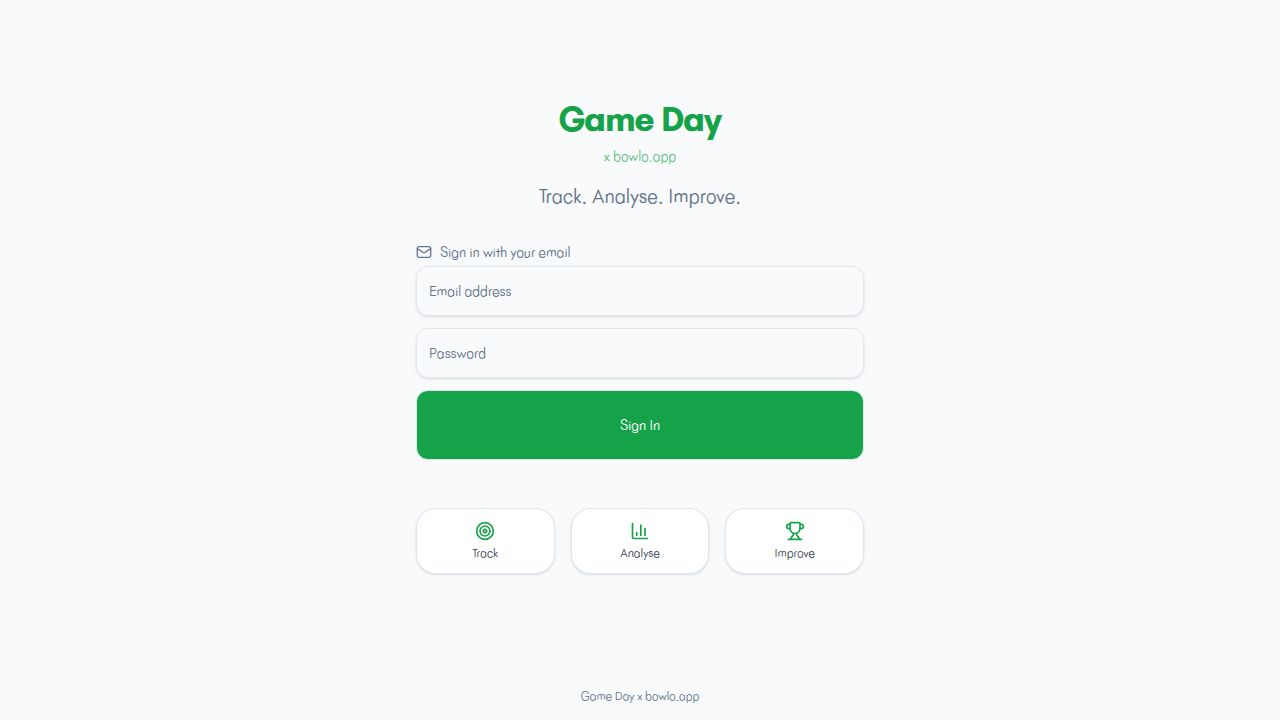
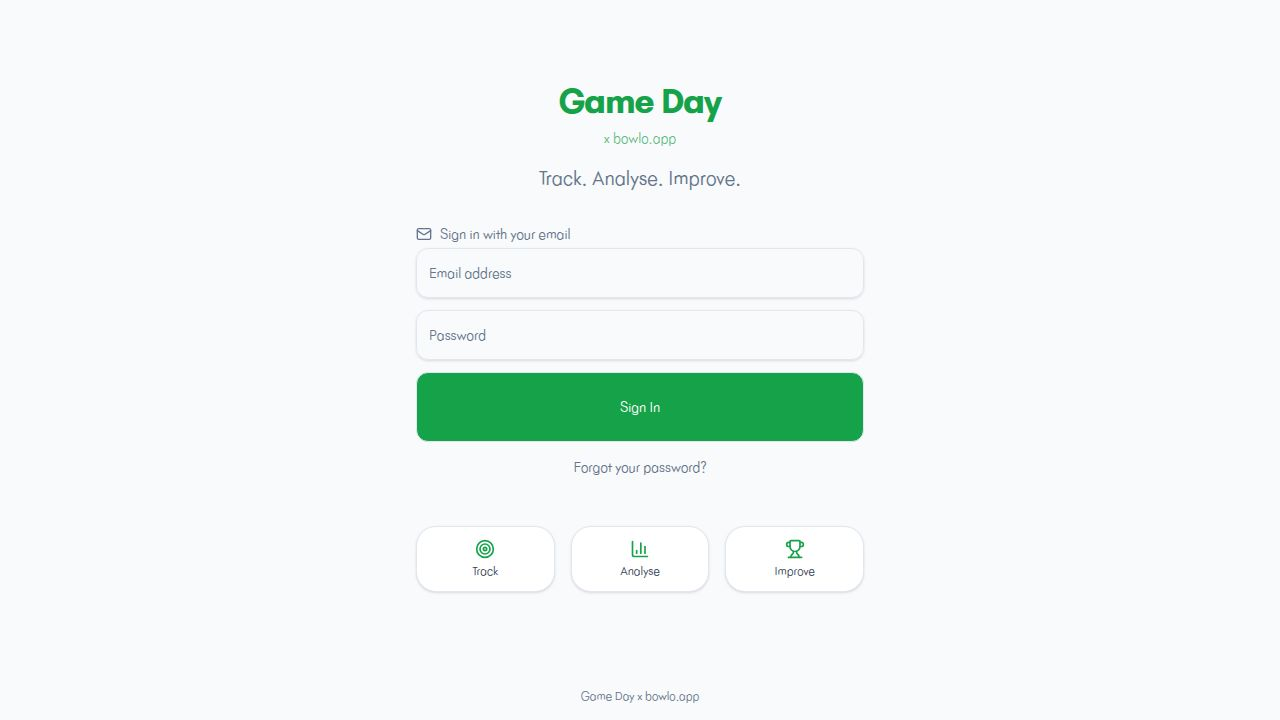
Add ability for users to install the app on their phones
Implement PWA features including a service worker, manifest, and an install prompt component to allow users to add the application to their home screen on both Android and iOS devices.

Replit-Commit-Author: Agent
Replit-Commit-Session-Id: 8a6bf808-df9c-4d21-804c-c904d6196b6b
Replit-Commit-Checkpoint-Type: full_checkpoint
Replit-Commit-Event-Id: 913cd4a6-5a5d-46b2-9cb9-c38441bb8a50
Replit-Commit-Screenshot-Url: https://storage.googleapis.com/screenshot-production-us-central1/6723928c-374d-4b0d-a8f7-f4464587c831/8a6bf808-df9c-4d21-804c-c904d6196b6b/dKTUlya
Replit-Helium-Checkpoint-Created: true

diff --git a/client/src/components/install-prompt.tsx b/client/src/components/install-prompt.tsx
@@ -1,0 +1,115 @@
+import { useState, useEffect } from "react";
+import { Button } from "@/components/ui/button";
+import { X, Share, Plus } from "lucide-react";
+
+const DISMISSED_KEY = "pwa-install-dismissed";
+
+function isIos() {
+  return /iphone|ipad|ipod/i.test(navigator.userAgent);
+}
+
+function isInStandaloneMode() {
+  return (
+    ("standalone" in window.navigator && (window.navigator as any).standalone === true) ||
+    window.matchMedia("(display-mode: standalone)").matches
+  );
+}
+
+export default function InstallPrompt() {
+  const [deferredPrompt, setDeferredPrompt] = useState<any>(null);
+  const [showAndroid, setShowAndroid] = useState(false);
+  const [showIos, setShowIos] = useState(false);
+
+  useEffect(() => {
+    if (isInStandaloneMode()) return;
+    if (localStorage.getItem(DISMISSED_KEY)) return;
+
+    if (isIos()) {
+      const timer = setTimeout(() => setShowIos(true), 2000);
+      return () => clearTimeout(timer);
+    }
+
+    const handler = (e: Event) => {
+      e.preventDefault();
+      setDeferredPrompt(e);
+      setShowAndroid(true);
+    };
+
+    window.addEventListener("beforeinstallprompt", handler as EventListener);
+    return () => window.removeEventListener("beforeinstallprompt", handler as EventListener);
+  }, []);
+
+  const dismiss = () => {
+    localStorage.setItem(DISMISSED_KEY, "1");
+    setShowAndroid(false);
+    setShowIos(false);
+  };
+
+  const installAndroid = async () => {
+    if (!deferredPrompt) return;
+    deferredPrompt.prompt();
+    const { outcome } = await deferredPrompt.userChoice;
+    if (outcome === "accepted") {
+      localStorage.setItem(DISMISSED_KEY, "1");
+    }
+    setDeferredPrompt(null);
+    setShowAndroid(false);
+  };
+
+  if (!showAndroid && !showIos) return null;
+
+  return (
+    <div className="fixed bottom-0 left-0 right-0 z-50 p-4 pb-safe">
+      <div className="bg-card border border-border rounded-2xl shadow-lg p-4 max-w-md mx-auto">
+        <div className="flex items-start gap-3">
+          <img src="/app-icon.png" alt="Game Day" className="w-12 h-12 rounded-xl flex-shrink-0" />
+          <div className="flex-1 min-w-0">
+            <p className="font-semibold text-sm">Add to your home screen</p>
+            {showAndroid && (
+              <p className="text-xs text-muted-foreground mt-0.5">
+                Install Game Day for quick access and the best experience.
+              </p>
+            )}
+            {showIos && (
+              <p className="text-xs text-muted-foreground mt-0.5">
+                Tap <Share className="inline w-3 h-3 mx-0.5" /> then{" "}
+                <span className="font-medium">Add to Home Screen</span>{" "}
+                <Plus className="inline w-3 h-3 mx-0.5" /> to install.
+              </p>
+            )}
+          </div>
+          <button
+            onClick={dismiss}
+            className="text-muted-foreground hover:text-foreground flex-shrink-0 mt-0.5"
+            aria-label="Dismiss"
+            data-testid="button-dismiss-install"
+          >
+            <X className="w-4 h-4" />
+          </button>
+        </div>
+
+        {showAndroid && (
+          <div className="flex gap-2 mt-3">
+            <Button
+              variant="outline"
+              size="sm"
+              className="flex-1"
+              onClick={dismiss}
+              data-testid="button-install-later"
+            >
+              Not now
+            </Button>
+            <Button
+              size="sm"
+              className="flex-1"
+              onClick={installAndroid}
+              data-testid="button-install-app"
+            >
+              Install
+            </Button>
+          </div>
+        )}
+      </div>
+    </div>
+  );
+}

diff --git a/client/public/sw.js b/client/public/sw.js
@@ -1,0 +1,21 @@
+const CACHE_NAME = "gameday-v1";
+
+self.addEventListener("install", (event) => {
+  self.skipWaiting();
+});
+
+self.addEventListener("activate", (event) => {
+  event.waitUntil(
+    caches.keys().then((keys) =>
+      Promise.all(keys.filter((k) => k !== CACHE_NAME).map((k) => caches.delete(k)))
+    )
+  );
+  self.clients.claim();
+});
+
+self.addEventListener("fetch", (event) => {
+  if (event.request.method !== "GET") return;
+  const url = new URL(event.request.url);
+  if (url.pathname.startsWith("/api/")) return;
+  event.respondWith(fetch(event.request).catch(() => caches.match(event.request)));
+});

diff --git a/client/src/App.tsx b/client/src/App.tsx
@@ -7,6 +7,7 @@ import { useAuth } from "@/hooks/useAuth";
 import { lazy, Suspense } from "react";
 import Layout from "@/components/layout";
 import Landing from "@/pages/landing";
+import InstallPrompt from "@/components/install-prompt";
 
 const Home = lazy(() => import("@/pages/home"));
 const GameSetup = lazy(() => import("@/pages/game-setup"));
@@ -81,6 +82,7 @@ function App() {
       <TooltipProvider>
         <Router />
         <Toaster />
+        <InstallPrompt />
       </TooltipProvider>
     </QueryClientProvider>
   );

diff --git a/client/src/main.tsx b/client/src/main.tsx
@@ -2,4 +2,10 @@ import { createRoot } from "react-dom/client";
 import App from "./App";
 import "./index.css";
 
+if ("serviceWorker" in navigator) {
+  window.addEventListener("load", () => {
+    navigator.serviceWorker.register("/sw.js").catch(() => {});
+  });
+}
+
 createRoot(document.getElementById("root")!).render(<App />);
